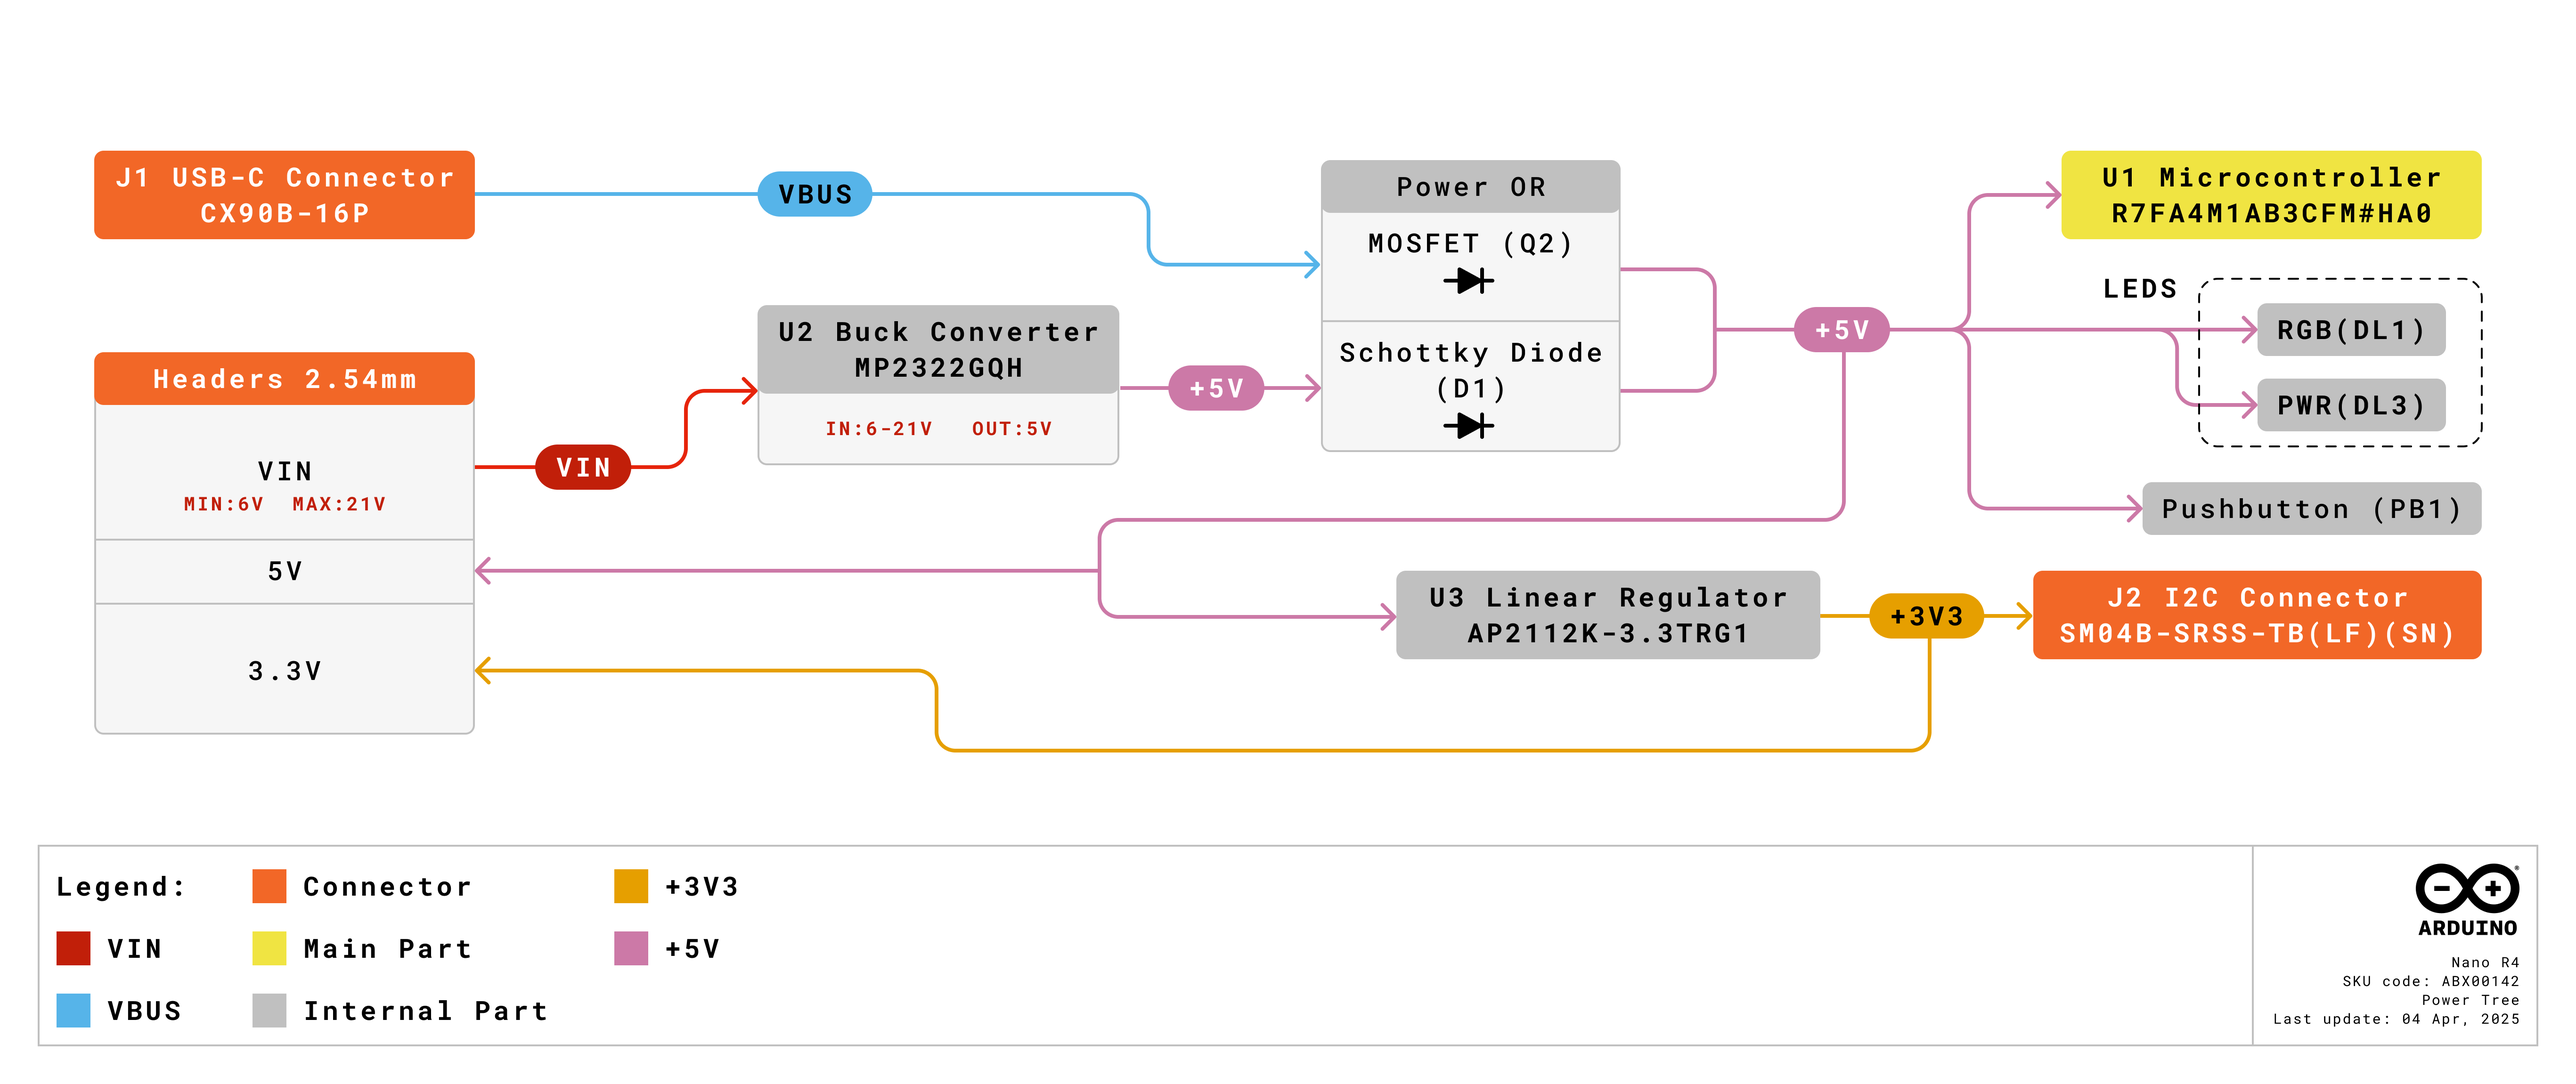
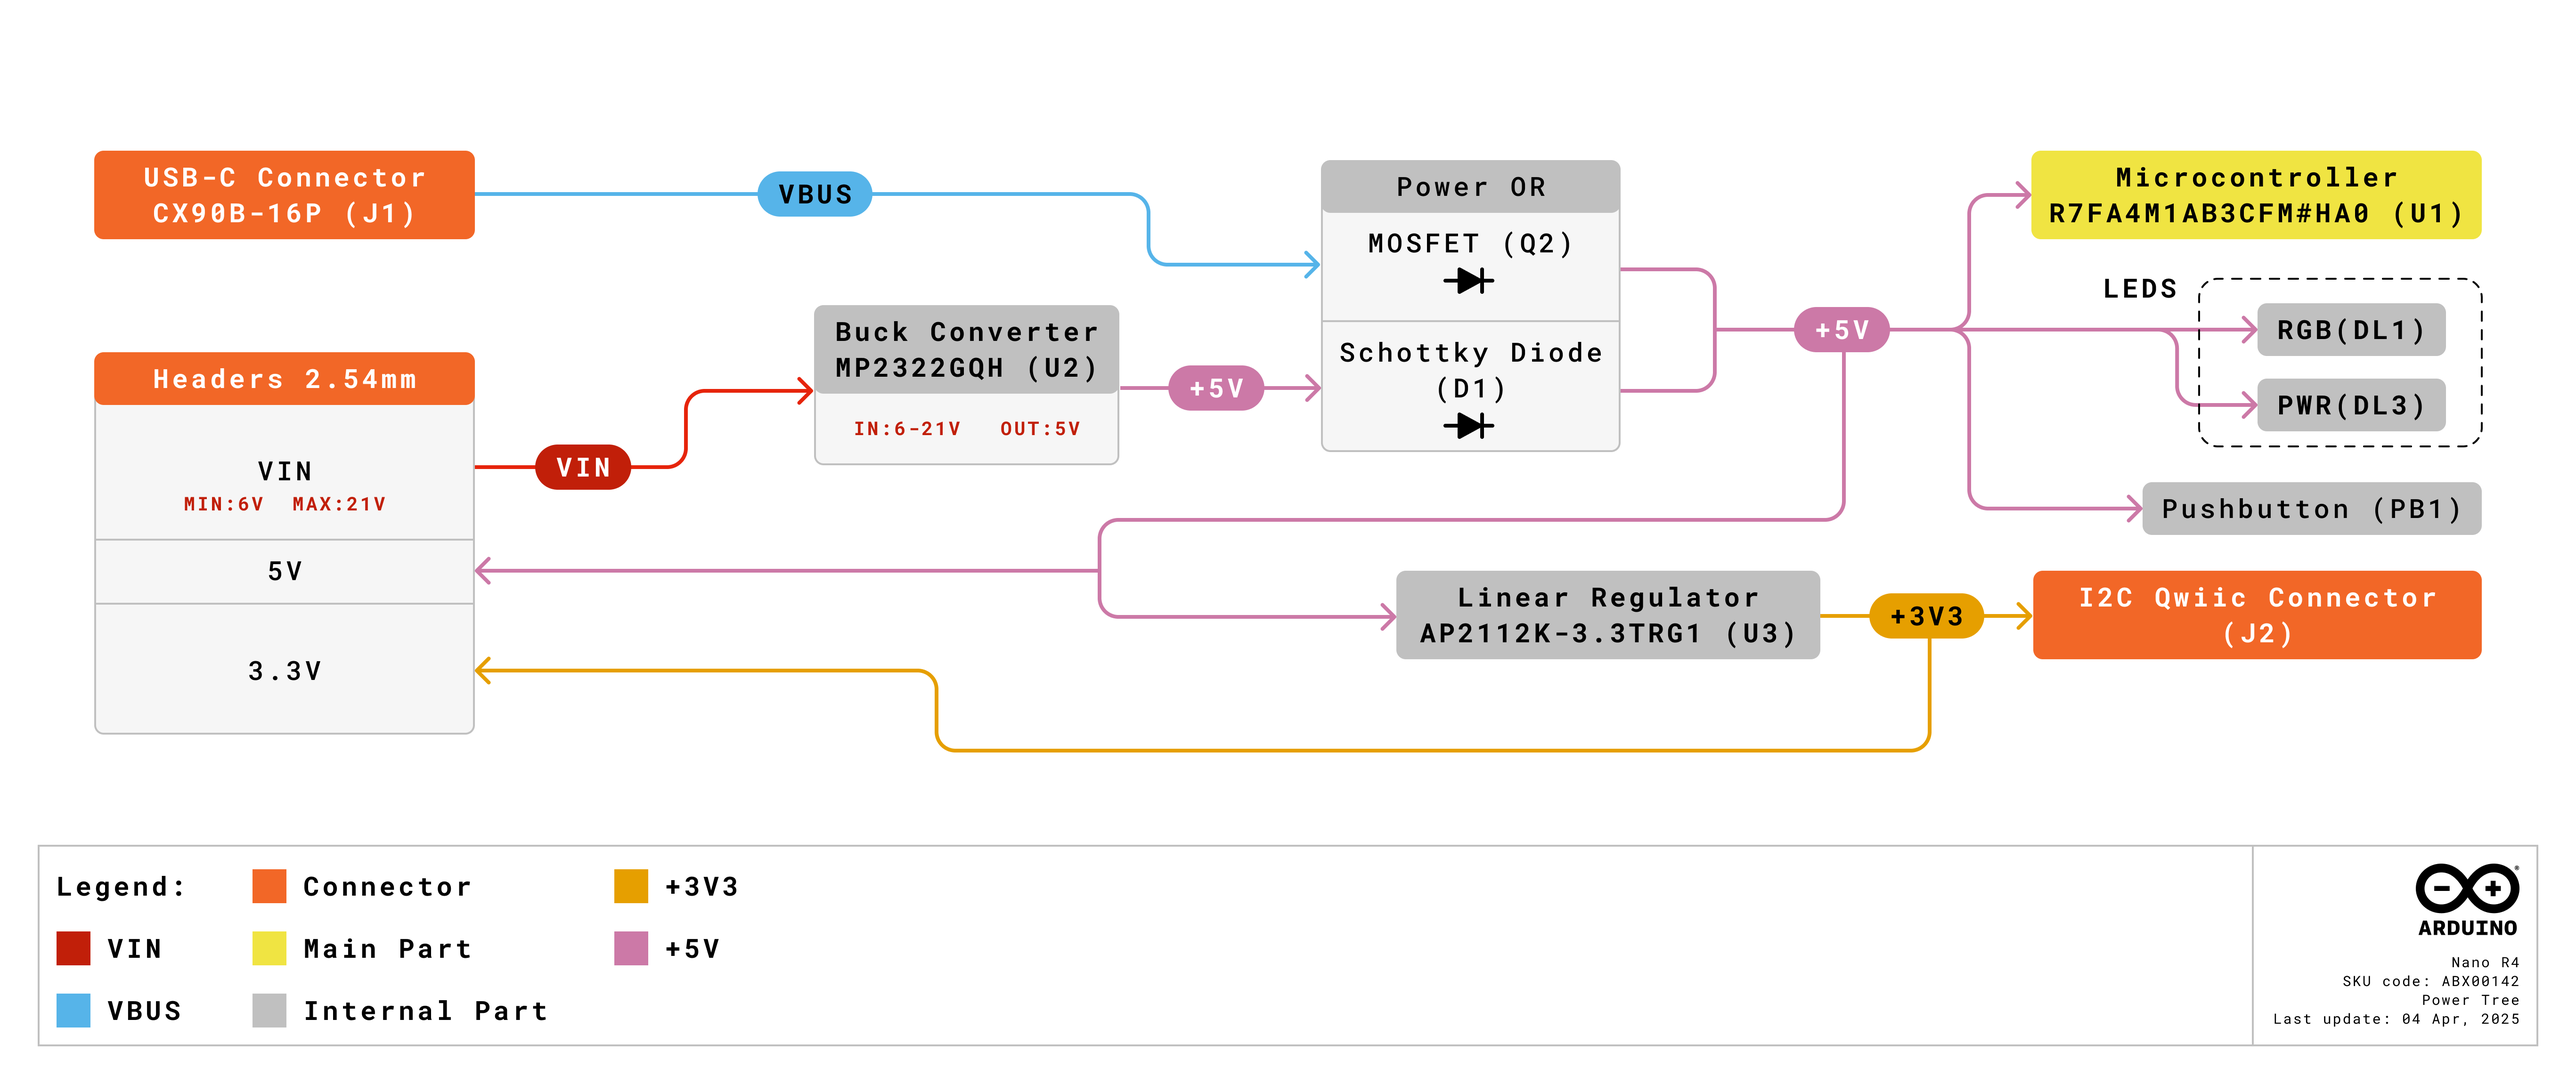
Julian review changes applied

diff --git a/content/hardware/03.nano/boards/nano-r4/datasheet/datasheet.md b/content/hardware/03.nano/boards/nano-r4/datasheet/datasheet.md
@@ -121,6 +121,10 @@ The Realtime Clock (RTC) has two counting modes: calendar count mode and binary 
 - For calendar count mode, the RTC has a 100-year calendar from 2000 to 2099 and automatically adjusts dates for leap years.
 - For binary count mode, the RTC counts seconds and retains the information as a serial value. Binary count mode can be used for calendars other than the Gregorian (Western) calendar.
 
+<div style="background-color:rgb(206, 255, 201); border-left: 6px solid rgb(138, 255, 128); margin: 20px 0; padding: 15px;">
+The Nano R4 features an external crystal oscillator that improve considerably the timing of timers like the RTC and other sub-clock dependant peripherals.
+</div>
+
 ### Related Products
 
 - Arduino Nano (A000005)
@@ -142,6 +146,7 @@ The Realtime Clock (RTC) has two counting modes: calendar count mode and binary 
 ### Power Options
 
 Power can either be supplied via the VIN pin, or via USB-C® connector. If power is supplied via VIN, the MP2322GQH buck converter steps the voltage down to 5 V.
+
 The 5 V output of the buck converter is connected to a Schottky diode in place for reverse polarity & overvoltage protection respectively.
 
 #### Power Tree
@@ -234,7 +239,7 @@ An overview of the Nano R4 high-level architecture is illustrated in the figure 
 ![Arduino Nano R4 Block Diagram](assets/Nano_R4_Block_Diagram.png)
 
 ## Board Topology
-### Front View
+### Overall View
 
 ![Top View of Arduino Nano R4](assets/topViewNanoR4.png)
 
@@ -247,7 +252,7 @@ An overview of the Nano R4 high-level architecture is illustrated in the figure 
 | JP1           | Analog input/output headers              |
 | JP2           | Digital input/output headers             |
 | J1            | CX90B-16P USB-C® connector               |
-| J2            | SM04B-SRSS-TB(LF)(SN) I2C connector      |
+| J2            | I2C Qwiic connector                      |
 | DL1           | RGB LED                                  |
 
 
